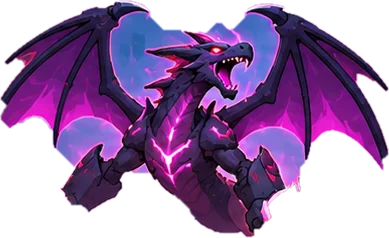
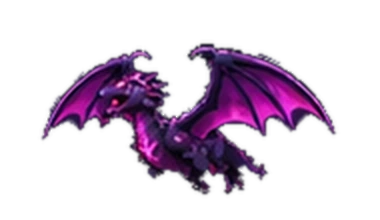
feat: add stick-bastion game assets, styles, and core logic

diff --git a/Stickman/stick-bastion/js/enemies.js b/Stickman/stick-bastion/js/enemies.js
@@ -21,7 +21,8 @@ const ET = {
   juggernaut: { name: 'Juggernaut', h: 112, hp: 1080, spd: 24, dmg: 45, rate: 1.6, coin: 55, cost: 8, w: .6, beh: 'melee', crit: [.5, .25] },
   sky_reaper: { name: 'Sky Reaper', h: 72, hp: 260, spd: 60, dmg: 20, rate: 2, coin: 45, cost: 7, w: .6, beh: 'shoot', fly: 1, alt: [150, 230], crit: [.32, .4], muz: [.05, .45], shot: 'bullet' },
   warlord_mech: { name: 'Warlord Mech', h: 200, hp: 820, spd: 22, dmg: 55, rate: 1.6, coin: 250, cost: 0, w: 0, beh: 'melee', boss: 1, crit: [.43, .25], muz: [.12, .15], shot: 'shell', srate: 4.5, sdmg: 16 },
-  void_dragon: { name: 'Void Dragon', h: 230, hp: 880, spd: 40, dmg: 18, rate: 2.4, coin: 320, cost: 0, w: 0, beh: 'bomb', boss: 1, fly: 1, alt: [200, 240], crit: [.42, .25], muz: [.4, .3] },
+  void_dragon: { name: 'Void Dragon', h: 300, hp: 880, spd: 40, dmg: 18, rate: 2.4, coin: 320, cost: 0, w: 0, beh: 'bomb', boss: 1, fly: 1, alt: [200, 240], crit: [.35, .42], muz: [.27, .48] },
+  goliath_mech: { name: 'Goliath War Mech', h: 250, hp: 900, spd: 24, dmg: 16, rate: 3.2, coin: 320, cost: 0, w: 0, beh: 'shoot', boss: 1, crit: [.41, .43], muz: [.18, .15], shot: 'shell', volley: 3, srate: 5, sdmg: 14, stopR: [235, 300] },
 };
 const UNLOCK = {
   rifle_grunt: 1, blade_raider: 2, heavy_gunner: 3, shield_brute: 4, bomb_runner: 5, mech_walker: 5, scout_drone: 6, wing_raider: 7, stealth_assassin: 8,
@@ -30,8 +31,10 @@ const UNLOCK = {
 // overall toughness: raise these to make every enemy stronger
 const FAST = 1.2, tough = n => clamp(2.2 - .12 * n, 1.15, 2.2);
 const hpMul = n => 1 + .22 * (n - 1) + .02 * (n - 1) * (n - 1) + .0015 * (n - 1) * (n - 1) * (n - 1);
-const bossFor = n => n % 10 === 0 ? 'void_dragon' : 'warlord_mech';
+const bossFor = n => n % 10 === 0 ? 'goliath_mech' : 'warlord_mech';
 for (const k in ET) { const d = ET[k]; d.id = k; d.img = loadImg('assets/enemies/' + k + '.webp'); d.aspect = ENEMY_SIZE[k][0] / ENEMY_SIZE[k][1] }
+// the Void Dragon plays frame animations from strips (6 frames each): flying loop and death
+ET.void_dragon.anim = { fly: loadImg('assets/enemies/void_dragon_fly.webp'), die: loadImg('assets/enemies/void_dragon_die.webp'), n: 6, cw: 380, ch: 220, dch: 240 };
 
 let uid = 0;
 function spawnEnemy(type, demo) {
@@ -142,6 +145,7 @@ function updateEnemy(e, dt) {
 function smokePuff(x, y, col) { for (let i = 0; i < 8; i++)S.parts.push({ type: 'smoke', x: x + rand(-14, 14), y: y + rand(-14, 14), vx: rand(-40, 40), vy: rand(-50, 0), life: .6, max: .6, size: rand(8, 14), g: 0, col }) }
 function ramBlow(e) { e.dead = true; explode(e.core.x, e.core.y, 90, 40); hitWall(e.d.dmg * (1 + .04 * (S.wave - 1)) * (S.demo ? 0 : 1), WALL.x1, Math.min(GY - 40, e.y)); enemyDeath(e, { ix: 300 }); }
 function fireShell(e) {
+  if (e.d.volley && !e.inVolley) { e.inVolley = 1; for (let i = 0; i < e.d.volley; i++)fireShell(e); e.inVolley = 0; e.fireAt = e.t; return }
   const m = e.muz || e.core, shell = e.d.shot === 'shell', tx = rand(WALL.x1 - 40, WALL.x1 - 4), ty = WALL.top + rand(-6, 80), g = shell ? 480 : 120; e.sw = 1;
   const T = Math.abs(tx - m.x) / (shell ? rand(420, 500) : rand(700, 800));
   S.eproj.push({ kind: shell ? 'shell' : 'bolt', x: m.x, y: m.y, vx: (tx - m.x) / T, vy: (ty - m.y) / T - .5 * g * T, g, dmg: (e.d.sdmg || e.d.dmg) * (1 + .05 * (S.wave - 1)) });
@@ -173,7 +177,8 @@ var RIG = {
   spiked_beast: { k: 'quad', y: .66, amp: .26 },
   wing_raider: { k: 'wing', a: .37, b: .63, py: .38, amp: .38, fr: 10 },
   sky_reaper: { k: 'wing', a: .29, b: .56, py: .35, amp: .3, fr: 7, aura: '255,60,60' },
-  void_dragon: { k: 'wing', a: .33, b: .65, py: .32, amp: .26, fr: 4, aura: '200,80,255' },
+  void_dragon: { k: 'frames', fps: 9, aura: '200,80,255' },
+  goliath_mech: { k: 'walker', aura: '255,110,40', muz2: [.72, .3] },
   scout_drone: { k: 'rotor', pts: [[.12, .1, .11], [.88, .1, .11]] },
   attack_drone: { k: 'jet', pts: [[.97, .42]] },
   bomber_drone: { k: 'jet', pts: [[.97, .33]] },
@@ -200,6 +205,8 @@ function rigParts(d, col) {
   return partCache[k] = P;
 }
 function drawRig(g, e, R, col) {
+  if (R && R.k === 'frames') { drawFrames(g, e, R, col); return }
+  if (R && R.k === 'walker') { drawWalker(g, e, R, col); return }
   const w = e.w, h = e.h, src = col ? tinted(e.d, col) : e.d.img;
   const P = R && R.k !== 'rotor' && R.k !== 'jet' ? rigParts(e.d, col) : null;
   if (!P) { g.drawImage(src, -w / 2, -h, w, h); return }
@@ -233,7 +240,7 @@ function drawEnemy(g, e) {
   g.save(); g.globalAlpha = alpha; g.translate(x0 + e.w / 2, y0 + e.h); g.rotate(tilt); g.scale(1 + .08 * q, 1 - .08 * q + br);
   drawRig(g, e, R);
   const fx = e.flash > 0 ? '#ffffff' : e.slowT > 0 ? '#8fe8ff' : e.acidT > 0 ? '#9cff3a' : e.burnT > 0 ? '#ff7a2a' : null;
-  if (fx) { g.globalAlpha = alpha * (e.flash > 0 ? .45 : .28); drawRig(g, e, R, fx) }
+  if (fx) { g.globalAlpha = alpha * (e.flash > 0 ? (d.boss ? .2 : .45) : (d.boss ? .15 : .28)); drawRig(g, e, R, fx) }
   if (R && !e.cloak && (R.k === 'rotor' || R.k === 'jet')) {
     g.globalAlpha = alpha; g.globalCompositeOperation = 'lighter';
     for (const p of R.pts) {
@@ -255,6 +262,44 @@ function drawEnemy(g, e) {
   if (e.shield > 0 && e.shieldMax) { const w = 34, x = e.core.x - w / 2, y = e.topY - 14; g.fillStyle = '#cfe6ff'; g.fillRect(x, y, w * e.shield / e.shieldMax, 3) }
 }
 const tintCache = {};
+// tint any image (cached by key) for hit flash / slow / burn overlays
+function tintImg(k, im, col) { k += col; if (tintCache[k]) return tintCache[k]; if (!im.naturalWidth) return im; const c = document.createElement('canvas'); c.width = im.naturalWidth; c.height = im.naturalHeight; const g = c.getContext('2d'); g.drawImage(im, 0, 0); g.globalCompositeOperation = 'source-in'; g.fillStyle = col; g.fillRect(0, 0, c.width, c.height); return tintCache[k] = c }
+// heavy walker drawn from one detailed picture: the hull rocks over planted feet (shear + squash at the feet line),
+// each step thumps dust and shakes the screen, the core glow pulses, and firing kicks the whole mech back with muzzle flashes
+function drawWalker(g, e, R, col) {
+  const w = e.w, h = e.h, walk = e.state === 'walk', ph = e.t * 2.6 + e.phase, s = Math.sin(ph);
+  const ft = e.fireAt != null ? e.t - e.fireAt : 9, kick = ft < .35 ? Math.sin(ft / .35 * Math.PI) : 0;
+  const shear = walk ? s * .035 : Math.sin(e.t * 1.3) * .006, sq = walk ? 1 - Math.abs(s) * .025 : 1 + Math.sin(e.t * 2) * .006;
+  if (!col && walk && !S.demo) { const st = Math.floor(ph / Math.PI); if (e.step !== st) { e.step = st; S.shake = Math.max(S.shake, 2.5); for (let i = 0; i < 6; i++)S.parts.push({ type: 'smoke', x: e.x + rand(-w * .4, w * .4), y: GY - 4, vx: rand(-50, 50), vy: rand(-40, -10), life: rand(.5, .9), max: .9, size: rand(8, 16), g: 0, col: '#6a5248' }) } }
+  g.save(); g.translate(kick * w * .035, 0); g.transform(1, 0, -shear, sq, 0, 0);
+  g.drawImage(col ? tinted(e.d, col) : e.d.img, -w / 2, -h, w, h);
+  if (!col) {
+    g.globalCompositeOperation = 'lighter';
+    const glow = (fx, fy, r, a, c1, c2) => { const x = -w / 2 + fx * w, y = -h + fy * h, gr = g.createRadialGradient(x, y, 0, x, y, r); gr.addColorStop(0, 'rgba(' + c1 + ',' + a + ')'); gr.addColorStop(1, 'rgba(' + c2 + ',0)'); g.fillStyle = gr; g.beginPath(); g.arc(x, y, r, 0, 7); g.fill() };
+    glow(e.d.crit[0], e.d.crit[1], h * .16, .35 + .25 * Math.sin(e.t * 4), '255,200,90', '255,90,20');
+    if (kick > 0) { for (const m of [e.d.muz, R.muz2]) glow(m[0] - .03, m[1], h * (.22 + .1 * kick), .95 * kick, '255,240,170', '255,110,20') }
+  }
+  g.restore();
+}
+// frame-animated flyer: loops the fly strip; glows at the mouth right after it breathes fire
+function drawFrames(g, e, R, col) {
+  const A = e.d.anim, w = e.w, h = e.h;
+  let k = A.fly ? 'fly' : 'walk', f = Math.floor(e.t * R.fps + e.phase) % A.n, sw = 1, sh = 1;
+  if (A.walk) {
+    const ft = e.fireAt != null ? e.t - e.fireAt : 9;
+    if (ft < .55) { k = 'fire'; f = 2 + Math.min(3, Math.floor(ft / .55 * 4)); sw = A.fcw / A.cw; sh = A.fch / A.ch }
+    else if (e.state !== 'walk') { k = 'idle'; f = Math.floor(e.t * 6 + e.phase) % A.n }
+  }
+  const im = A[k]; if (!im.naturalWidth) { g.drawImage(col ? tinted(e.d, col) : e.d.img, -w / 2, -h, w, h); return }
+  const src = col ? tintImg(e.d.id + k, im, col) : im, cw = A.cw * sw, ch = A.ch * sh, dw = w * sw, dh = h * sh;
+  g.imageSmoothingEnabled = true; g.imageSmoothingQuality = 'high';
+  g.drawImage(src, f * cw, 0, cw, ch, -dw / 2, -dh, dw, dh);
+  if (A.fly && !col && e.sw > 0) {
+    const mx = -w / 2 + e.d.muz[0] * w, my = -h + e.d.muz[1] * h, r = h * .16 * (0.6 + e.sw * .6), gr = g.createRadialGradient(mx, my, 0, mx, my, r);
+    gr.addColorStop(0, 'rgba(255,230,255,' + .9 * e.sw + ')'); gr.addColorStop(.4, 'rgba(230,80,255,' + .6 * e.sw + ')'); gr.addColorStop(1, 'rgba(160,40,255,0)');
+    g.save(); g.globalCompositeOperation = 'lighter'; g.fillStyle = gr; g.beginPath(); g.arc(mx, my, r, 0, 7); g.fill(); g.restore()
+  }
+}
 function tinted(d, col) {
   const k = d.id + col; if (tintCache[k]) return tintCache[k]; const im = d.img; if (!im.naturalWidth) return im; const c = document.createElement('canvas'); c.width = im.naturalWidth; c.height = im.naturalHeight;
   const g = c.getContext('2d'); g.drawImage(im, 0, 0); g.globalCompositeOperation = 'source-in'; g.fillStyle = col; g.fillRect(0, 0, c.width, c.height); return tintCache[k] = c
@@ -267,6 +312,8 @@ function enemyDeath(e, o) {
   for (let i = 0; i < 6; i++)S.parts.push({ type: 'smoke', x: c.x + rand(-14, 14) * s, y: c.y, vx: rand(-40, 40), vy: rand(-80, -20), life: rand(.8, 1.4), max: 1.4, size: rand(12, 22) * s, g: 0 });
   const cols = ['#2a2433', '#433b52', '#ff5a3c', '#e8a33a'];
   for (let i = 0; i < 6 + s * 4; i++)S.parts.push({ type: 'debris', x: c.x + rand(-12, 12) * s, y: c.y + rand(-10, 10) * s, vx: rand(-220, 280) + (o.ix || 0) * .25, vy: rand(-460, -150), life: rand(1.2, 2), max: 2, size: rand(4, 9) * s, g: 1100, rot: rand(0, 6), vr: rand(-14, 14), col: cols[i % 4], floor: GY - 2 });
+  // the Void Dragon falls to the ground and plays its death frames instead of breaking apart
+  if (e.d.anim) { const A = e.d.anim, k = e.h / A.ch; S.parts.push({ type: 'ddie', A, x: e.x, y: e.d.fly ? e.y + e.h * .32 : e.y + 2, vx: 0, vy: 60, g: 900, floor: GY + 4, w: A.cw * k, h: A.dch * k, life: 3.2, max: 3.2 }); return }
   // break the sprite apart into tumbling chunks
   const fly = e.d.fly, nx = e.w > e.h * 1.3 ? 3 : 2, ny = e.d.boss ? 3 : 2, ox = e.x - e.w / 2, oy = fly ? e.y - e.h / 2 : e.y - e.h;
   for (let i = 0; i < nx; i++)for (let j = 0; j < ny; j++) {

diff --git a/Stickman/stick-bastion/js/render.js b/Stickman/stick-bastion/js/render.js
@@ -142,6 +142,9 @@ function drawParts(g,layer){
       case'beam':if(layer!==1)break;g.globalAlpha=t;g.globalCompositeOperation='lighter';g.lineCap='round';g.strokeStyle='rgba('+p.col+',.45)';g.lineWidth=14*t;g.beginPath();g.moveTo(p.x,p.y);g.lineTo(p.x2,p.y2);g.stroke();g.strokeStyle='rgba(255,235,255,.95)';g.lineWidth=3.5;g.stroke();g.globalCompositeOperation='source-over';break;
       case'bolt':if(layer!==1)break;{g.globalAlpha=t;g.globalCompositeOperation='lighter';g.lineJoin='round';for(const [lw,c] of [[7,'rgba('+p.col+',.4)'],[2.5,'rgba(235,255,255,.95)']]){g.strokeStyle=c;g.lineWidth=lw;g.beginPath();g.moveTo(p.pts[0].x,p.pts[0].y);for(let k=1;k<p.pts.length;k++){const a=p.pts[k-1],b=p.pts[k];for(let s=1;s<=4;s++){const f=s/4;g.lineTo(a.x+(b.x-a.x)*f+(s<4?rand(-9,9):0),a.y+(b.y-a.y)*f+(s<4?rand(-9,9):0))}}g.stroke()}g.globalCompositeOperation='source-over';break}
       case'corpse':if(layer!==0)break;{const im=p.d.img;g.globalAlpha=Math.min(1,t*1.6);g.save();g.translate(p.x,p.y);g.rotate(p.rot*(1-t)*.6);g.filter='brightness(.45)';g.drawImage(im,-p.w/2,-p.h,p.w,p.h);g.filter='none';g.restore();break}
+      case'ddie':if(layer!==0||!p.A.die.naturalWidth)break;{const A=p.A;if(!p.land&&p.y>=p.floor-3)p.land=p.life;const f=p.land?Math.min(A.n-1,Math.floor((p.land-p.life)/.26)):0;
+        g.globalAlpha=Math.min(1,p.life/.45);if(!p.land){const fh=p.h*A.ch/A.dch,r=(p.max-p.life)*1.2;g.save();g.translate(p.x,p.y-fh*.6);g.rotate(r);g.drawImage(A.fly,0,0,A.cw,A.ch,-p.w/2,-fh/2,p.w,fh);g.restore();break}
+        g.drawImage(A.die,f*A.cw,0,A.cw,A.dch,p.x-p.w/2,p.y-p.h,p.w,p.h);break}
       case'chunk':if(layer!==0||!p.d.img.naturalWidth)break;{const im=p.d.img,iw=im.naturalWidth,ih=im.naturalHeight,a=Math.min(1,t*2.2);g.save();g.translate(p.x,p.y);g.rotate(p.rot);
         g.globalAlpha=a;g.drawImage(im,p.fx*iw,p.fy*ih,p.fw*iw,p.fh*ih,-p.w/2,-p.h/2,p.w,p.h);
         const hot=Math.max(0,(t-.55)/.45);g.globalAlpha=a*(.55-.25*hot);g.drawImage(tinted(p.d,'#160c14'),p.fx*iw,p.fy*ih,p.fw*iw,p.fh*ih,-p.w/2,-p.h/2,p.w,p.h);
@@ -215,13 +218,18 @@ function drawWorld(){
   drawPlane(g);
   for(const s of S.slots)drawSlotUI(g,s);
   g.textAlign='center';g.textBaseline='middle';
-  for(const f of S.floaters){const a=f.t<.8?1:1-(f.t-.8)/.3;g.globalAlpha=clamp(a,0,1);const sc=f.t<.12?1+(.12-f.t)*4:1;g.font=`900 ${Math.round(20*f.size*sc)}px system-ui,Arial,sans-serif`;g.lineWidth=4;g.strokeStyle='rgba(20,8,20,.85)';g.strokeText(f.text,f.x,f.y);g.fillStyle=f.col;g.fillText(f.text,f.x,f.y)}
+  for(const f of S.floaters){const a=f.t<.8?1:1-(f.t-.8)/.3;g.globalAlpha=clamp(a,0,1);const sc=f.t<.12?1+(.12-f.t)*4:1;g.font=`italic 900 ${Math.round(23*f.size*sc)}px "Barlow Condensed",system-ui,Arial,sans-serif`;g.lineWidth=4;g.strokeStyle='rgba(20,8,20,.85)';g.strokeText(f.text,f.x,f.y);g.fillStyle=f.col;g.fillText(f.text,f.x,f.y)}
   g.globalAlpha=1;
   for(const c of S.coinfx){const t=c.t,tx=1040,ty=36,mx=(c.x+tx)/2,my=Math.min(c.y,ty)-120,x=(1-t)*(1-t)*c.x+2*(1-t)*t*mx+t*t*tx,y=(1-t)*(1-t)*c.y+2*(1-t)*t*my+t*t*ty;g.fillStyle='#ffc53d';g.beginPath();g.arc(x,y,6,0,7);g.fill();g.fillStyle='#fff3b0';g.beginPath();g.arc(x-2,y-2,2,0,7);g.fill()}
   g.setTransform(K,0,0,K,0,0);
   const boss=S.enemies.find(e=>e.d.boss&&!e.dead);
-  if(boss&&!S.demo){const w=440,x=W/2-w/2,y=92;g.fillStyle='rgba(15,8,28,.7)';g.fillRect(x-6,y-22,w+12,40);g.font='900 14px system-ui,Arial';g.fillStyle='#e7c8ff';g.textAlign='center';g.fillText('☠ '+boss.d.name.toUpperCase(),W/2,y-10);g.fillStyle='#2a1838';g.fillRect(x,y,w,10);g.fillStyle='#b46cff';g.fillRect(x,y,w*clamp(boss.hp/boss.maxHp,0,1),10)}
-  if(S.banner&&S.banner.t>=0){const b=S.banner,t=b.t,a=t<.2?t/.2:t>1.9?Math.max(0,1-(t-1.9)/.5):1,sc=t<.2?1.4-t*2:1;g.save();g.globalAlpha=a;g.translate(W/2,220);g.scale(sc,sc);g.textAlign='center';g.textBaseline='middle';g.font='900 60px Impact,"Arial Black",system-ui';g.lineWidth=10;g.strokeStyle='rgba(30,10,30,.85)';g.strokeText(b.text,0,0);g.fillStyle=b.col;g.fillText(b.text,0,0);if(b.sub){g.font='800 24px system-ui,Arial';g.lineWidth=6;g.strokeText(b.sub,0,50);g.fillStyle='#fff';g.fillText(b.sub,0,50)}g.restore()}
+  // boss health: skewed navy plate with gold edge (matches the HUD), plus a pale trail that shows recent damage
+  if(boss&&!S.demo){const w=460,x=W/2-w/2,y=124,r=clamp(boss.hp/boss.maxHp,0,1);boss.trail=Math.max(r,(boss.trail==null?r:boss.trail)-.004);
+    g.save();g.translate(W/2,y);g.transform(1,0,-.22,1,0,0);g.fillStyle='rgba(12,18,44,.92)';g.fillRect(-w/2-14,-30,w+28,48);g.strokeStyle='rgba(255,210,58,.85)';g.lineWidth=2;g.strokeRect(-w/2-14,-30,w+28,48);
+    g.fillStyle='#0a0f20';g.fillRect(-w/2,0,w,11);g.fillStyle='rgba(255,240,200,.55)';g.fillRect(-w/2,0,w*boss.trail,11);
+    const gr=g.createLinearGradient(-w/2,0,w/2,0);gr.addColorStop(0,'#ff3b30');gr.addColorStop(1,'#ff9b2e');g.fillStyle=gr;g.fillRect(-w/2,0,w*r,11);g.fillStyle='rgba(255,255,255,.35)';g.fillRect(-w/2,0,w*r,3);g.restore();
+    g.font='italic 900 19px "Barlow Condensed",system-ui,Arial';g.textAlign='center';g.textBaseline='alphabetic';g.fillStyle='#ffd23a';g.fillText('☠ '+boss.d.name.toUpperCase()+' ☠',W/2,y-8)}
+  if(S.banner&&S.banner.t>=0){const b=S.banner,t=b.t,a=t<.2?t/.2:t>1.9?Math.max(0,1-(t-1.9)/.5):1,sc=t<.2?1.4-t*2:1;g.save();g.globalAlpha=a;g.translate(W/2,220);g.scale(sc,sc);g.textAlign='center';g.textBaseline='middle';g.font='italic 900 68px "Barlow Condensed",Impact,"Arial Black",system-ui';g.lineWidth=10;g.strokeStyle='rgba(30,10,30,.85)';g.strokeText(b.text,0,0);g.fillStyle=b.col;g.fillText(b.text,0,0);if(b.sub){g.font='italic 800 27px "Barlow Condensed",system-ui,Arial';g.lineWidth=6;g.strokeText(b.sub,0,50);g.fillStyle='#fff';g.fillText(b.sub,0,50)}g.restore()}
   const vg=g.createRadialGradient(W/2,H/2,H*.5,W/2,H/2,H*1.05);vg.addColorStop(0,'rgba(0,0,0,0)');vg.addColorStop(1,'rgba(10,0,30,.3)');g.fillStyle=vg;g.fillRect(0,0,W,H);
   if(!S.demo&&S.mode==='play'&&S.wallHP/S.wallMax<.25){g.fillStyle=`rgba(255,30,30,${.08+.06*Math.sin(S.time*6)})`;g.fillRect(0,0,W,H)}
 }

diff --git a/Stickman/stick-bastion/css/style.css b/Stickman/stick-bastion/css/style.css
@@ -352,3 +352,34 @@ h1.title{margin:0;font-family:Impact,"Arial Black",system-ui,sans-serif;font-siz
 /* bar scales with the game screen itself (not capped like the rest of the HUD) so it always fills the dirt strip */
 #stage{container-type:inline-size}
 #baseBar{font-size:1.5cqw}
+
+/* ---------- finishing touches: dialogs, buttons, transitions ---------- */
+/* dialogs (pause, level complete, game over) share the HUD look: navy panel, gold edge, condensed italic type */
+.screen.dim{backdrop-filter:blur(3px);-webkit-backdrop-filter:blur(3px);animation:dimIn .25s ease-out}
+.screen.dim .panel{position:relative;background:linear-gradient(165deg,var(--nv1,#1b2a5c),var(--nv2,#0d1532));border:2px solid rgba(255,210,58,.75);border-radius:1em;
+  box-shadow:0 0 0 3px rgba(10,14,34,.85),0 0 2.2em rgba(255,190,60,.18),0 1.2em 3em rgba(0,0,0,.6);padding:1.2em 1.8em 1.4em;animation:panelIn .38s cubic-bezier(.2,1.4,.4,1) both;overflow:visible}
+.screen.dim .panel::before{content:'';position:absolute;left:1.2em;right:1.2em;top:-2px;height:.3em;border-radius:0 0 .3em .3em;
+  background:repeating-linear-gradient(-45deg,#ffd23a 0 .5em,#1a1a1a .5em 1em);opacity:.9}
+.screen.dim .title{font-family:var(--hf,inherit);font-style:italic;font-weight:900;letter-spacing:.02em;text-transform:uppercase;color:var(--gd,#ffd23a);
+  text-shadow:0 .06em 0 #7a3b00,0 0 .5em rgba(255,190,60,.35);margin:.1em 0 .2em}
+#over .title{color:#ff6b4f!important;text-shadow:0 .06em 0 #5a0f05,0 0 .5em rgba(255,80,50,.4)}
+.screen.dim .wl{font-family:var(--hf,inherit);font-style:italic;letter-spacing:.14em;color:var(--cy,#3aa8ff)}
+.stats>div{font-family:var(--hf,inherit);font-style:italic;font-weight:700;letter-spacing:.06em;text-transform:uppercase;color:#b9c6ea;font-size:.95em}
+.stats b{font-size:2em;line-height:1.05;color:var(--gd,#ffd23a);text-shadow:0 .06em 0 #7a3b00}
+.wobj div{transition:color .3s}
+.wobj .ok{color:#ffe27a}
+/* buttons: chunkier, condensed italic, consistent press feel */
+.btn{font-family:var(--hf,inherit);font-style:italic;font-weight:900;letter-spacing:.05em;text-transform:uppercase;margin:.25em .2em;transition:transform .08s,filter .15s}
+.btn:hover{filter:brightness(1.08)}
+.btn:active{transform:translateY(.15em) scale(.97)}
+.btn.alt{background:linear-gradient(#2c4384,#18265a);color:#e7eeff;border:1px solid #4f7fe0;box-shadow:0 .22em 0 #0b1230,0 .4em 1em rgba(0,0,0,.4)}
+.btn.alt:active{box-shadow:0 .07em 0 #0b1230}
+#resumeBtn{font-size:1.45em;padding:.6em 2.4em;margin-bottom:.4em}
+/* hub tabs and side panels ease in when you switch */
+.tabbox,.side,.mapwrap{animation:tabIn .28s ease-out}
+.bnav button{transition:transform .1s,filter .15s}
+.bnav button:active{transform:scale(.95)}
+@keyframes dimIn{from{opacity:0}to{opacity:1}}
+@keyframes panelIn{from{opacity:0;transform:translateY(1.2em) scale(.9)}to{opacity:1;transform:none}}
+@keyframes tabIn{from{opacity:0;transform:translateY(.5em)}to{opacity:1;transform:none}}
+@media (prefers-reduced-motion:reduce){.screen.dim,.screen.dim .panel,.tabbox,.side,.mapwrap{animation:none}}

diff --git a/Stickman/stick-bastion/js/data.js b/Stickman/stick-bastion/js/data.js
@@ -43,4 +43,4 @@ const GUNM={blaster: [353, 130, 50, 353, 90, 100, 96], plasma: [362, 137, 60, 36
 const GUNIMG={},GSP={};
 for(const id in GUNM){GUNIMG[id]=loadImg('assets/guns/'+id+'.webp');const [w,h,by,tx,gx,gy,len]=GUNM[id],k=len*.85/w,px=gx+40;
   GSP[id]={x0:-px*k,y0:-by*k,w:w*k,h:h*k,tip:(tx-px)*k,grip:[-40*k,(gy-by)*k]}}
-const ENEMY_SIZE={rifle_grunt: [119, 117], shield_brute: [153, 130], blade_raider: [163, 119], heavy_gunner: [183, 150], bomb_runner: [151, 140], mech_walker: [215, 150], spiked_beast: [181, 128], juggernaut: [279, 196], scout_drone: [177, 60], attack_drone: [212, 86], hover_bike: [164, 98], wing_raider: [276, 114], bomber_drone: [249, 119], sky_reaper: [327, 151], stealth_assassin: [89, 121], mind_controller: [116, 132], healer_support: [128, 155], turret_carrier: [222, 149], warlord_mech: [362, 203], void_dragon: [389, 238]};
+const ENEMY_SIZE={rifle_grunt: [119, 117], shield_brute: [153, 130], blade_raider: [163, 119], heavy_gunner: [183, 150], bomb_runner: [151, 140], mech_walker: [215, 150], spiked_beast: [181, 128], juggernaut: [279, 196], scout_drone: [177, 60], attack_drone: [212, 86], hover_bike: [164, 98], wing_raider: [276, 114], bomber_drone: [249, 119], sky_reaper: [327, 151], stealth_assassin: [89, 121], mind_controller: [116, 132], healer_support: [128, 155], turret_carrier: [222, 149], warlord_mech: [362, 203], void_dragon: [380, 220], goliath_mech: [1194, 600]};

diff --git a/Stickman/stick-bastion/js/combat.js b/Stickman/stick-bastion/js/combat.js
@@ -87,7 +87,8 @@ function explodeFx(x,y,r,w){
 function sparks(x,y,n,col){for(let i=0;i<n;i++){const a=rand(0,6.28),v=rand(100,320);S.parts.push({type:'spark',x,y,vx:Math.cos(a)*v,vy:Math.sin(a)*v,life:rand(.12,.25),max:.25,size:2,g:300,col})}}
 function blood(x,y,ix,iy,n){for(let i=0;i<n;i++)S.parts.push({type:'drop',x,y,vx:ix*rand(60,260)+rand(-60,60),vy:iy*rand(60,200)+rand(-200,-20),life:rand(.4,.8),max:.8,size:rand(1.5,3.2),g:1000,col:'#b8202e'})}
 function dust(x,y){for(let i=0;i<4;i++)S.parts.push({type:'smoke',x,y:y-2,vx:rand(-40,40),vy:rand(-50,-10),life:.4,max:.4,size:rand(4,8),g:0,col:'#d8a070'})}
-function floater(x,y,text,col,size){S.floaters.push({x,y,text,col,t:0,size:size||1})}
+// floating text (kept away from the screen edges so it never gets cut off)
+function floater(x,y,text,col,size){S.floaters.push({x:clamp(x,24+text.length*6*(size||1),W-24-text.length*6*(size||1)),y:Math.max(110,y),text,col,t:0,size:size||1})}
 
 const RAG_LINKS=[[0,1],[1,2],[2,3],[3,4],[2,5],[5,6],[1,7],[7,8],[1,9],[9,10],[0,2]];
 function spawnRag(e,o){

diff --git a/Stickman/stick-bastion/js/hudskin.js b/Stickman/stick-bastion/js/hudskin.js
@@ -3,8 +3,10 @@
 (function(){
   const sub=$('waveSub');
   setInterval(()=>{if(!S||S.demo)return;
-    let t;if(S.career){const w=careerWave(),n=S.career.waves;t='WAVE '+Math.min(n,S.waveActive?w:w+1)+' / '+n}
-    else t='WAVE '+(S.waveActive?S.wave:S.wave+1);
+    // during a wave: how many enemies are still to beat; between waves: which wave is next
+    let t;if(S.waveActive){const left=S.queue.length+S.enemies.filter(e=>!e.dead).length;t=left+(left===1?' ENEMY LEFT':' ENEMIES LEFT')}
+    else if(S.career){const w=careerWave(),n=S.career.waves;t='NEXT: WAVE '+Math.min(n,w+1)+' / '+n}
+    else t='NEXT: WAVE '+(S.wave+1);
     if(sub.textContent!==t)sub.textContent=t},150);
   // split the caption: the part after the first " TO " (or the last two words) is drawn in yellow
   const cap=document.getElementById('tutCap');if(!cap)return;

diff --git a/Stickman/stick-bastion/js/career.js b/Stickman/stick-bastion/js/career.js
@@ -11,7 +11,7 @@ for (let k = 1; k <= 16; k++) {
   const ch = Math.floor((k - 1) / 4), bossLv = k % 4 === 0;
   LEVELS.push({
     k, ch, map: CHAPTERS[ch].id, waves: 4 + Math.floor((k - 1) / 3), off: Math.round((k - 1) * .65),
-    boss: bossLv ? (k % 8 === 0 ? 'void_dragon' : 'warlord_mech') : null, coins: Math.round((100 + (k - 1) * 50 + (k - 1) * (k - 1) * 2) / 10) * 10, reward: 60 + k * 20
+    boss: bossLv ? (k % 8 === 0 ? 'goliath_mech' : 'warlord_mech') : null, coins: k === 1 ? 160 : Math.round((100 + (k - 1) * 50 + (k - 1) * (k - 1) * 2) / 10) * 10, reward: 60 + k * 20
   });
 }
 // what a level throws at you (used for the preview)
